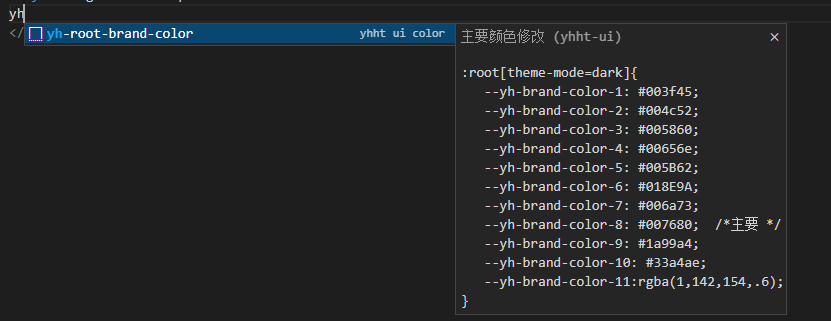
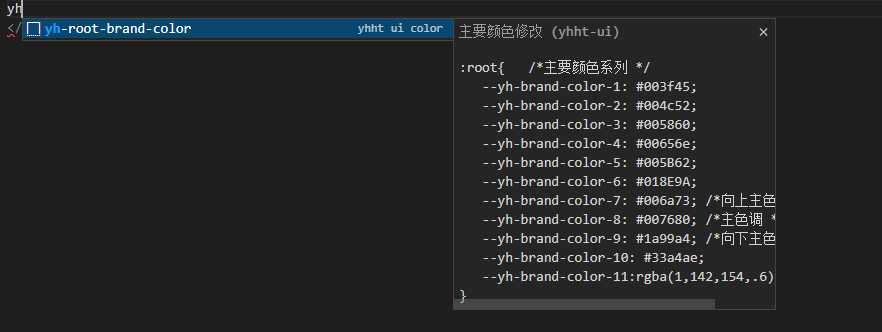
修复一些问题

diff --git a/yhht-ui/src/index.js b/yhht-ui/src/index.js
@@ -2,7 +2,7 @@
  * @Author: daidai
  * @Date: 2021-07-12 09:26:26
  * @LastEditors: Please set LastEditors
- * @LastEditTime: 2022-05-09 17:21:21
+ * @LastEditTime: 2022-05-23 09:19:51
  * @FilePath: \yhht-ui\yhht-ui\src\index.js
  */
 // import Cropper from '../packages/cropper/index';// 图像预览 暂未写完
@@ -25,37 +25,36 @@ const components = [
   Coordinate
 ];
 
-const install = function(Vue, opts = {}) {
-    components.forEach(component => {
-        // console.log(component)
-      Vue.component(component.name, component);
-    });
-  
-  };
-  /* istanbul ignore if */
+const install = function (Vue, opts = {}) {
+  components.forEach(component => {
+    // console.log(component)
+    Vue.component(component.name, GetCoordinate);
+  });
+};
+/* istanbul ignore if */
 if (typeof window !== 'undefined' && window.Vue) {
   install(window.Vue);
 }
 
-  export default {
-    version: '1.0.1',
-    install,
-    Skeleton,
-    SkeletonItem,
-    Drag,
-    Loading,
-    UploadImg,
-    Button,
-    Coordinate
-  };
+export default {
+  version: '1.0.1',
+  install,
+  Skeleton,
+  SkeletonItem,
+  Drag,
+  Loading,
+  UploadImg,
+  Button,
+  Coordinate
+};
 
-  export {
-    Skeleton,
-    SkeletonItem,
-    Drag,
-    UploadImg,
-    Button,
-    Coordinate,
-    GetCoordinate
-    
-  }
+export {
+  Skeleton,
+  SkeletonItem,
+  Drag,
+  UploadImg,
+  Button,
+  Coordinate,
+  GetCoordinate
+
+}

diff --git a/src/views/com/theme/theme.vue b/src/views/com/theme/theme.vue
@@ -2,7 +2,7 @@
  * @Author: daidai
  * @Date: 2021-09-09 17:19:05
  * @LastEditors: Please set LastEditors
- * @LastEditTime: 2022-05-17 16:20:37
+ * @LastEditTime: 2022-05-23 10:08:01
  * @FilePath: \yhht-ui\src\views\com\Installation.vue
 -->
 <template>
@@ -17,24 +17,21 @@
       </a>
       它能更好地和 yhht ui 配合使用。
     </p>
-    <div class="codes">
-      <code-light codeType="node" text="npm i yhht-ui -S"></code-light>
-    </div>
     <p>在 全局css 复制一下代码，修改以下所有颜色即可替换主题系列样式：</p>
 
     <code-light
       wrapClass="codes"
       codeType="less"
-      text=":root[theme-mode=dark]{
+      text=":root{  /*主要颜色系列 */
     --yh-brand-color-1: #003f45;
     --yh-brand-color-2: #004c52;
     --yh-brand-color-3: #005860;
     --yh-brand-color-4: #00656e;
     --yh-brand-color-5: #005B62;
     --yh-brand-color-6: #018E9A;
-    --yh-brand-color-7: #006a73;
-    --yh-brand-color-8: #007680;  /*主要 */
-    --yh-brand-color-9: #1a99a4;
+    --yh-brand-color-7: #006a73;   /*向上主色 越浅 */
+    --yh-brand-color-8: #007680;  /*主色调 */
+    --yh-brand-color-9: #1a99a4;  /*向下主色 越浅 */
     --yh-brand-color-10: #33a4ae;
     --yh-brand-color-11:rgba(1,142,154,.6);
 }"

diff --git a/src/views/Header.vue b/src/views/Header.vue
@@ -1,8 +1,8 @@
 <!--
  * @Author: daidai
  * @Date: 2021-09-09 17:19:05
- * @LastEditors: daidai
- * @LastEditTime: 2022-02-25 14:46:39
+ * @LastEditors: Please set LastEditors
+ * @LastEditTime: 2022-05-17 16:59:12
  * @FilePath: \yhht-ui\src\views\Header.vue
 -->
 <template >
